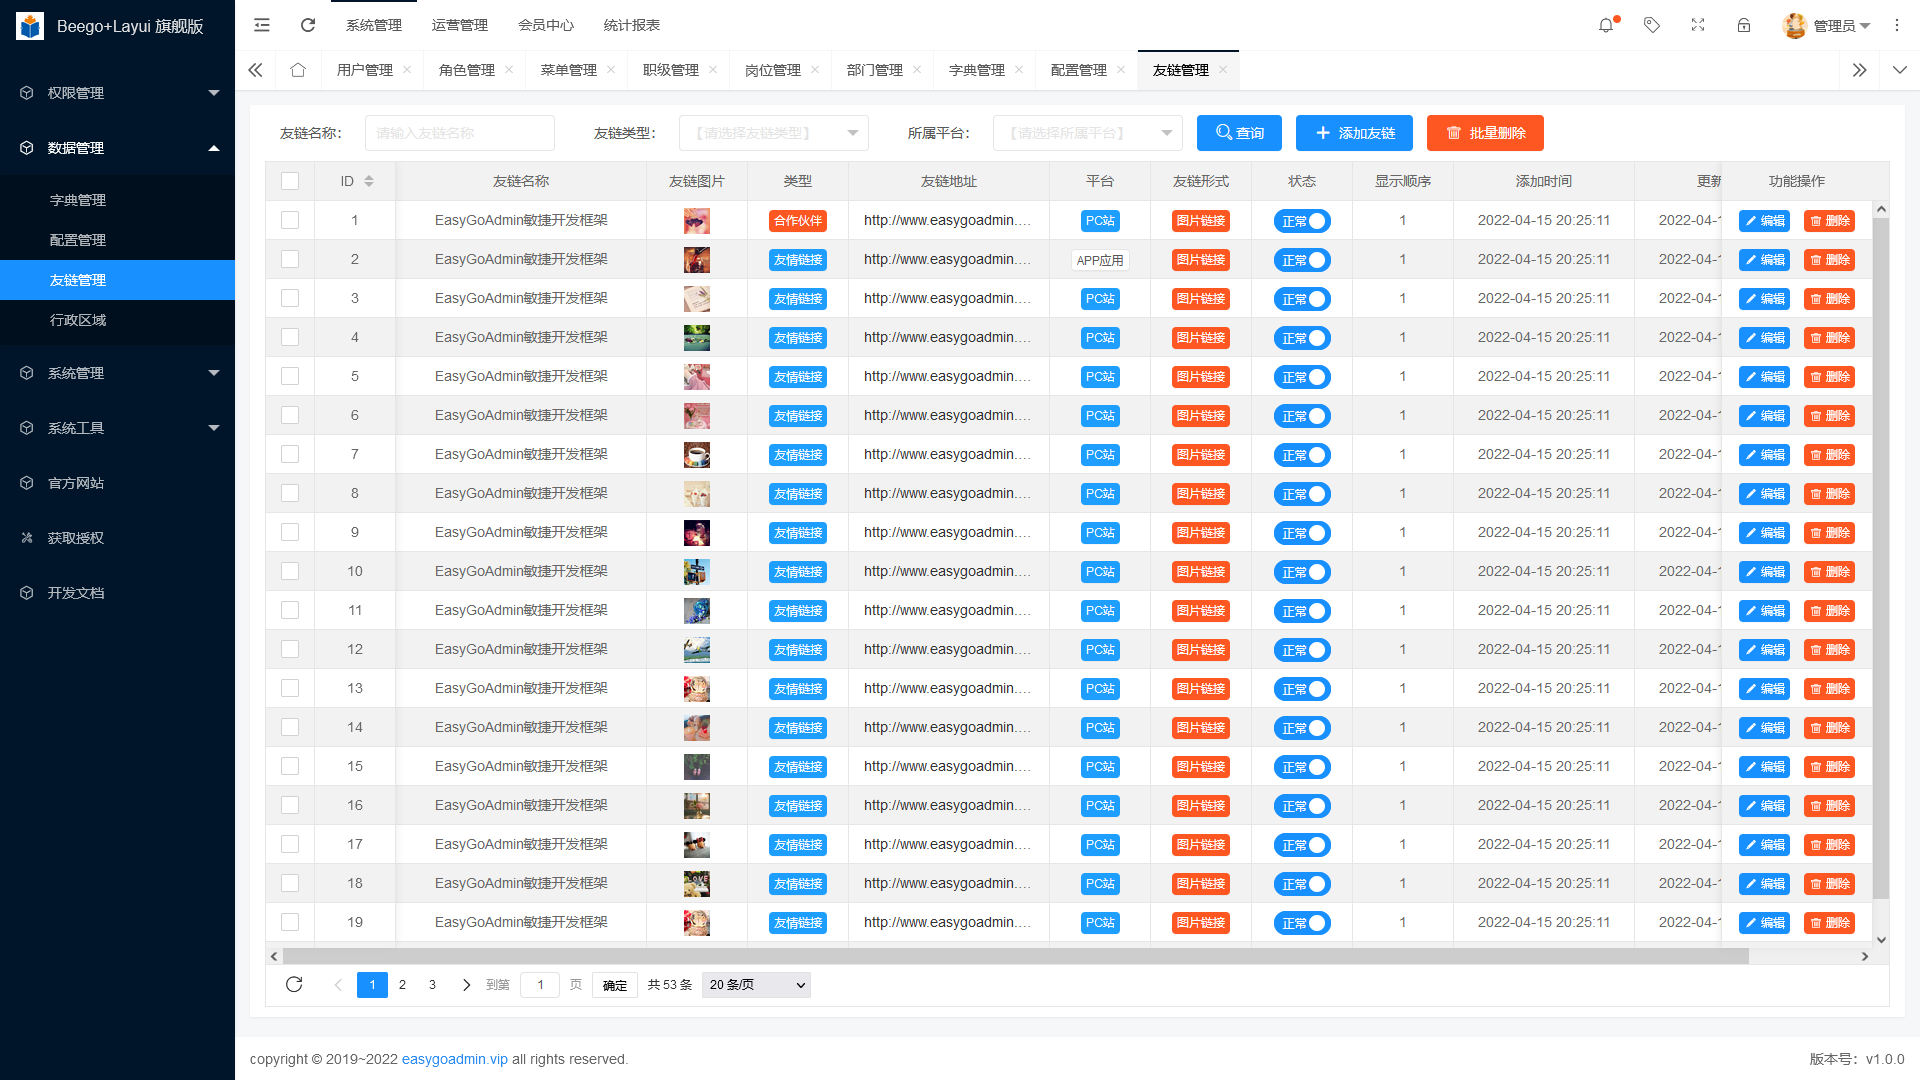
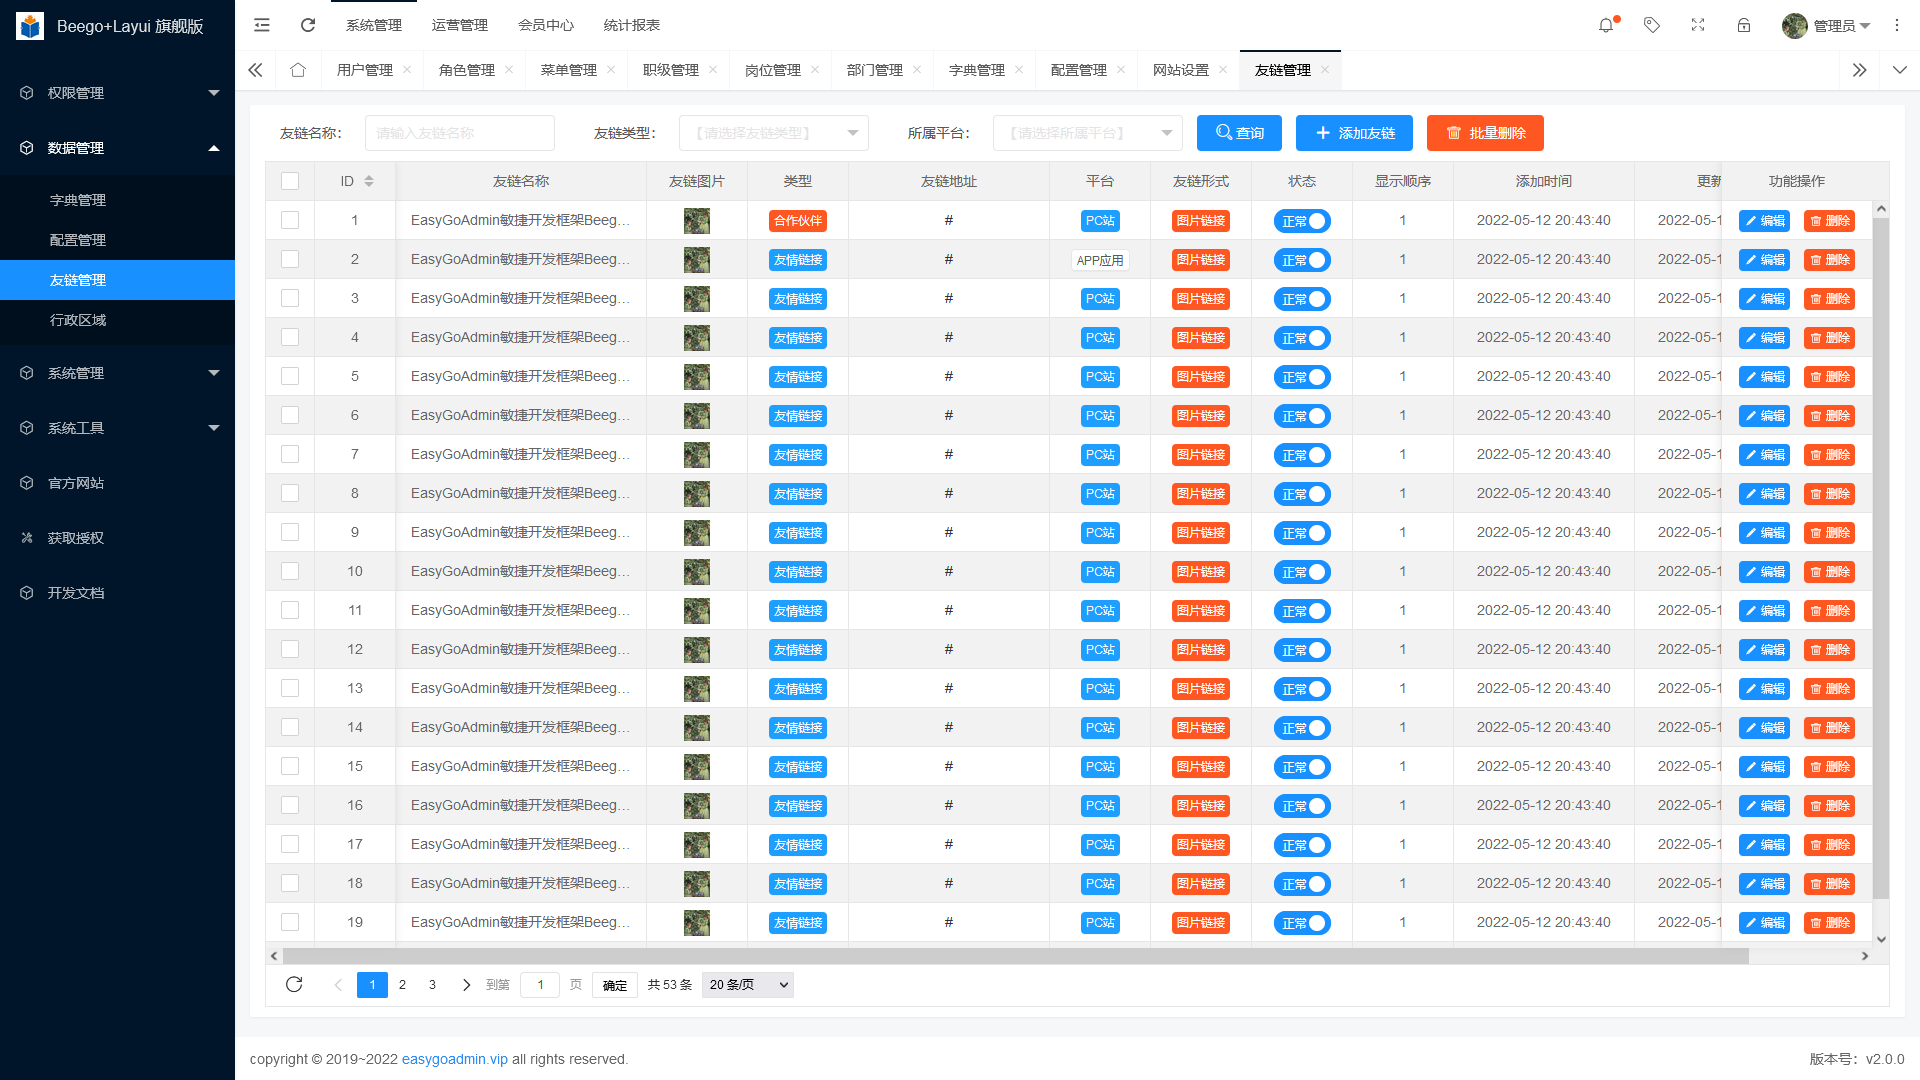
更新升级

diff --git a/static/assets/module/common.js b/static/assets/module/common.js
@@ -1,1 +1,1 @@
-(()=>{var n={351:()=>{layui.define(["form","layer","laydate","upload","element","base"],(function(n){"use strict";var e=layui.form,a=void 0===parent.layer?layui.layer:top.layer,t=layui.laydate,i=layui.upload,o=(layui.element,layui.base),r=layui.$,l={edit:function(n,e=0,a=0,t=0,i=[],r=null,c=!1){var s=e>0?"修改":"新增";o.isEmpty(n)?s+="内容":s+=n;var u=cUrl+"/edit?id="+e;if(Array.isArray(i))for(var f in i)u+="&"+i[f];l.showWin(s,u,a,t,i,2,[],(function(n,e){r&&r(n,e)}),c)},detail:function(n,e,a=0,t=0,i=!1){var o=cUrl+"/detail?id="+e;l.showWin(n+"详情",o,a,t,[],2,[],null,i)},cache:function(n){var e=cUrl+"/cache";l.ajaxPost(e,{id:n},(function(n,e){}))},copy:function(n,e,a=0,t=0){var i=cUrl+"/copy?id="+e;l.showWin(n+"复制",i,a,t)},delete:function(n,e=null){a.confirm("您确定要删除吗？删除后将无法恢复！",{icon:3,skin:"layer-ext-moon",btn:["确认","取消"]},(function(t){var i=cUrl+"/delete?id="+n;console.log(i),l.ajaxPost(i,{},(function(n,i){e&&(a.close(t),e(n,i))}),"正在删除。。。")}))},batchFunc:function(n,e=null){var t=n.url,i=n.title,o=(n.form,n.confirm||!1),r=n.show_tips||"处理中...",c=n.data||[],s=n.param||[],u=n.type||"POST";if("导出数据"!=i&&0==c.length)return a.msg("请选择数据",{icon:5}),!1;var f=[];for(var d in c)f.push(c[d].Id);var m=f.join(","),p={};if(p.id=m,Array.isArray(s))for(var d in s){var y=s[d].split("=");p[y[0]]=y[1]}console.log(p),o?a.confirm("您确定要【"+i+"】选中的数据吗？",{icon:3,title:"提示信息"},(function(n){"POST"==u?t.indexOf("/delete")>=0?l.ajaxPost(t+"?id="+m,{},e,r):l.ajaxPost(t,p,e,r):l.ajaxGet(t+"/"+m,{},e,r)})):"POST"==u?l.ajaxPost(t,p,e,r):l.ajaxGet(t+"/"+m,{},e,r)},verify:function(){e.verify({number:[/^[0-9]*$/,"请输入数字"],username:function(n,e){return new RegExp("^[a-zA-Z0-9_一-龥\\s·]+$").test(n)?/(^\_)|(\__)|(\_+$)/.test(n)?title+"首尾不能出现下划线'_'":/^\d+\d+\d$/.test(n)?title+"不能全为数字":void 0:title+"不能含有特殊字符"},pass:[/^[\S]{6,12}$/,"密码必须6到12位，且不能出现空格"]})},submitForm:function(n,e=null,a=null,t=!0){var i=[],c=[],s=n;if(r.each(s,(function(n,e){if(console.log(n+":"+e),/\[|\]|【|】/g.test(n)){var a=n.match(/\[(.+?)\]/g);e=n.match("\\[(.+?)\\]")[1];var t=n.replace(a,"");r.inArray(t,i)<0&&i.push(t),c[t]||(c[t]=[]),c[t].push(e)}})),console.log(s),console.log(i),console.log(c),r.each(i,(function(n,e){var a=[];r.each(c[e],(function(n,t){a.push(t),delete s[e+"["+t+"]"]})),s[e]=a.join(",")})),null==e){e=cUrl;var u=r("form").attr("action");o.isEmpty(u)?null!=n.id&&(0==n.id?e+="/add":n.id>0&&(e+="/update")):e=u}console.log(s);var f=new FormData;r.each(s,(function(n,e){f.append(n,e),console.log(n+","+e)})),console.log(f),l.ajaxPost(e,f,(function(n,e){if(e)return t&&setTimeout((function(){var n=parent.layer.getFrameIndex(window.name);parent.layer.close(n)}),500),a&&a(n,e),!1}))},searchForm:function(n,e,a="tableList"){n.reload(a,{page:{curr:1},where:e.field})},initDate:function(n,e=null){if(Array.isArray(n))for(var a in n){var i=n[a].split("|");if(i[2])var o=i[2].split(",");var r={};if(r.elem="#"+i[0],r.type=i[1],r.theme="molv",r.range="true"===i[3]||i[3],r.calendar=!0,r.show=!1,r.position="absolute",r.trigger="click",r.btns=["clear","now","confirm"],r.mark={"0-06-25":"生日","0-12-31":"跨年"},r.ready=function(n){},r.change=function(n,e,a){},r.done=function(n,a,t){e&&e(n,a)},o){var l=o[0];if(l){var c=!isNaN(l);r.min=c?parseInt(l):l}var s=o[1];if(s){var u=!isNaN(s);r.max=u?parseInt(s):s}}t.render(r)}},showWin:function(n,e,a=0,t=0,i=[],o=2,l=[],c=null,s=!1){var u=layui.layer.open({title:n,type:o,area:[a+"px",t+"px"],content:e,shadeClose:s,shade:.4,skin:"layui-layer-admin",success:function(n,e){if(Array.isArray(i))for(var a in i){var t=i[a].split("=");layui.layer.getChildFrame("body",e).find("#"+t[0]).val(t[1])}c&&c(e,1)},end:function(){c(u,2)}});0==a&&(layui.layer.full(u),r(window).on("resize",(function(){layui.layer.full(u)})))},ajaxPost:function(n,e,t=null,i="处理中,请稍后..."){var o=null;r.ajax({type:"POST",url:n,data:e,dataType:"json",contentType:!1,processData:!1,beforeSend:function(){o=a.msg(i,{icon:16,shade:.01,time:0})},success:function(n){if(0!=n.code)return a.close(o),a.msg(n.msg,{icon:5}),!1;a.msg(n.msg,{icon:1,time:500},(function(){a.close(o),t&&t(n,!0)}))},error:function(){a.close(o),a.msg("AJAX请求异常"),t&&t(null,!1)}})},ajaxGet:function(n,e,t=null,i="处理中,请稍后..."){var o=null;r.ajax({type:"GET",url:n,data:e,contentType:"application/json",dataType:"json",beforeSend:function(){o=a.msg(i,{icon:16,shade:.01,time:0})},success:function(n){if(0!=n.code)return a.msg(n.msg,{icon:5}),!1;a.msg(n.msg,{icon:1,time:500},(function(){a.close(o),t&&t(n,!0)}))},error:function(){a.msg("AJAX请求异常"),t&&t(null,!1)}})},formSwitch:function(n,a="",t=null){e.on("switch("+n+")",(function(e){var i=this.checked?"1":"2";o.isEmpty(a)&&(a=cUrl+"/set"+n.substring(0,1).toUpperCase()+n.substring(1));var r=new FormData;r.append("id",this.value),r.append(n,i),console.log(r),l.ajaxPost(a,r,(function(n,e){t&&t(n,e)}))}))},uploadFile:function(n,e=null,t="",r="xls|xlsx",l=10240,c={}){o.isEmpty(t)&&(t=cUrl+"/uploadFile"),i.render({elem:"#"+n,url:t,auto:!1,exts:r,accept:"file",size:l,method:"post",data:c,before:function(n){a.msg("上传并处理中。。。",{icon:16,shade:.01,time:0})},done:function(n){return a.closeAll(),0==n.code?a.alert(n.msg,{title:"上传反馈",skin:"layui-layer-molv",closeBtn:1,anim:0,btn:["确定","取消"],icon:6,yes:function(){e&&e(n,!0)},btn2:function(){}}):a.msg(n.msg,{icon:5}),!1},error:function(){return a.msg("数据请求异常")}})}};n("common",l)}))}},e={};!function a(t){var i=e[t];if(void 0!==i)return i.exports;var o=e[t]={exports:{}};return n[t](o,o.exports,a),o.exports}(351)})();
+(()=>{var n={351:()=>{layui.define(["form","layer","laydate","upload","element","base"],(function(n){"use strict";var e=layui.form,a=void 0===parent.layer?layui.layer:top.layer,t=layui.laydate,o=layui.upload,i=(layui.element,layui.base),r=layui.$,l={edit:function(n,e=0,a=0,t=0,o=[],r=null,c=!1){var s=e>0?"修改":"新增";i.isEmpty(n)?s+="内容":s+=n;var u=cUrl+"/edit?id="+e;if(Array.isArray(o))for(var f in o)u+="&"+o[f];l.showWin(s,u,a,t,o,2,[],(function(n,e){r&&r(n,e)}),c)},detail:function(n,e,a=0,t=0,o=!1){var i=cUrl+"/detail?id="+e;l.showWin(n+"详情",i,a,t,[],2,[],null,o)},cache:function(n){var e=cUrl+"/cache";l.ajaxPost(e,{id:n},(function(n,e){}))},copy:function(n,e,a=0,t=0){var o=cUrl+"/copy?id="+e;l.showWin(n+"复制",o,a,t)},delete:function(n,e=null){a.confirm("您确定要删除吗？删除后将无法恢复！",{icon:3,skin:"layer-ext-moon",btn:["确认","取消"]},(function(t){var o=cUrl+"/delete?id="+n;console.log(o),l.ajaxPost(o,{},(function(n,o){e&&(a.close(t),e(n,o))}),"正在删除。。。")}))},batchFunc:function(n,e=null){var t=n.url,o=n.title,i=(n.form,n.confirm||!1),r=n.show_tips||"处理中...",c=n.data||[],s=n.param||[],u=n.type||"POST";if("导出数据"!=o&&0==c.length)return a.msg("请选择数据",{icon:5}),!1;var f=[];for(var d in c)f.push(c[d].Id);var m=f.join(","),p={};if(p.id=m,Array.isArray(s))for(var d in s){var y=s[d].split("=");p[y[0]]=y[1]}console.log(p),i?a.confirm("您确定要【"+o+"】选中的数据吗？",{icon:3,title:"提示信息"},(function(n){"POST"==u?t.indexOf("/delete")>=0?l.ajaxPost(t+"?id="+m,{},e,r):l.ajaxPost(t,p,e,r):l.ajaxGet(t+"/"+m,{},e,r)})):"POST"==u?l.ajaxPost(t,p,e,r):l.ajaxGet(t+"/"+m,{},e,r)},verify:function(){e.verify({number:[/^[0-9]*$/,"请输入数字"],username:function(n,e){return new RegExp("^[a-zA-Z0-9_一-龥\\s·]+$").test(n)?/(^\_)|(\__)|(\_+$)/.test(n)?title+"首尾不能出现下划线'_'":/^\d+\d+\d$/.test(n)?title+"不能全为数字":void 0:title+"不能含有特殊字符"},pass:[/^[\S]{6,12}$/,"密码必须6到12位，且不能出现空格"]})},submitForm:function(n,e=null,a=null,t=!0){var o=[],c=[],s=n;if(r.each(s,(function(n,e){if(console.log(n+":"+e),/\[|\]|【|】/g.test(n)){var a=n.match(/\[(.+?)\]/g);e=n.match("\\[(.+?)\\]")[1];var t=n.replace(a,"");r.inArray(t,o)<0&&o.push(t),c[t]||(c[t]=[]),c[t].push(e)}})),console.log(s),console.log(o),console.log(c),r.each(o,(function(n,e){var a=[];r.each(c[e],(function(n,t){a.push(t),delete s[e+"["+t+"]"]})),s[e]=a.join(",")})),null==e){e=cUrl;var u=r("form").attr("action");i.isEmpty(u)?null!=n.id&&(0==n.id?e+="/add":n.id>0&&(e+="/update")):e=u}console.log(s);var f=new FormData;r.each(s,(function(n,e){f.append(n,e),console.log(n+","+e)})),console.log(f),l.ajaxPost(e,f,(function(n,e){if(e)return t&&setTimeout((function(){var n=parent.layer.getFrameIndex(window.name);parent.layer.close(n)}),500),a&&a(n,e),!1}))},searchForm:function(n,e,a="tableList"){n.reload(a,{page:{curr:1},where:e.field})},initDate:function(n,e=null){if(Array.isArray(n))for(var a in n){var o=n[a].split("|");if(o[2])var i=o[2].split(",");var r={};if(r.elem="#"+o[0],r.type=o[1],r.theme="molv",r.range="true"===o[3]||o[3],r.calendar=!0,r.show=!1,r.position="absolute",r.trigger="click",r.btns=["clear","now","confirm"],r.mark={"0-06-25":"生日","0-12-31":"跨年"},r.ready=function(n){},r.change=function(n,e,a){},r.done=function(n,a,t){e&&e(n,a)},i){var l=i[0];if(l){var c=!isNaN(l);r.min=c?parseInt(l):l}var s=i[1];if(s){var u=!isNaN(s);r.max=u?parseInt(s):s}}t.render(r)}},showWin:function(n,e,a=0,t=0,o=[],i=2,l=[],c=null,s=!1){var u=layui.layer.open({title:n,type:i,area:[a+"px",t+"px"],content:e,shadeClose:s,shade:.4,skin:"layui-layer-admin",success:function(n,e){if(Array.isArray(o))for(var a in o){var t=o[a].split("=");layui.layer.getChildFrame("body",e).find("#"+t[0]).val(t[1])}c&&c(e,1)},end:function(){c(u,2)}});0==a&&(layui.layer.full(u),r(window).on("resize",(function(){layui.layer.full(u)})))},ajaxPost:function(n,e,t=null,o="处理中,请稍后..."){var i=null;r.ajax({type:"POST",url:n,data:e,dataType:"json",contentType:!1,processData:!1,beforeSend:function(){i=a.msg(o,{icon:16,shade:.01,time:0})},success:function(n){if(0!=n.code)return a.close(i),a.msg(n.msg,{icon:5}),!1;a.msg(n.msg,{icon:1,time:500},(function(){a.close(i),t&&t(n,!0)}))},error:function(){a.close(i),a.msg("AJAX请求异常"),t&&t(null,!1)}})},ajaxGet:function(n,e,t=null,o="处理中,请稍后..."){var i=null;r.ajax({type:"GET",url:n,data:e,contentType:"application/json",dataType:"json",beforeSend:function(){i=a.msg(o,{icon:16,shade:.01,time:0})},success:function(n){if(0!=n.code)return a.msg(n.msg,{icon:5}),!1;a.msg(n.msg,{icon:1,time:500},(function(){a.close(i),t&&t(n,!0)}))},error:function(){a.msg("AJAX请求异常"),t&&t(null,!1)}})},formSwitch:function(n,a="",t=null){e.on("switch("+n+")",(function(e){var o=this.checked?"1":"2";i.isEmpty(a)&&(a=cUrl+"/set"+n.substring(0,1).toUpperCase()+n.substring(1));var r=new FormData;r.append("id",this.value),r.append(n.toLowerCase(),o),console.log(r),l.ajaxPost(a,r,(function(n,e){t&&t(n,e)}))}))},uploadFile:function(n,e=null,t="",r="xls|xlsx",l=10240,c={}){i.isEmpty(t)&&(t=cUrl+"/uploadFile"),o.render({elem:"#"+n,url:t,auto:!1,exts:r,accept:"file",size:l,method:"post",data:c,before:function(n){a.msg("上传并处理中。。。",{icon:16,shade:.01,time:0})},done:function(n){return a.closeAll(),0==n.code?a.alert(n.msg,{title:"上传反馈",skin:"layui-layer-molv",closeBtn:1,anim:0,btn:["确定","取消"],icon:6,yes:function(){e&&e(n,!0)},btn2:function(){}}):a.msg(n.msg,{icon:5}),!1},error:function(){return a.msg("数据请求异常")}})}};n("common",l)}))}},e={};!function a(t){var o=e[t];if(void 0!==o)return o.exports;var i=e[t]={exports:{}};return n[t](i,i.exports,a),i.exports}(351)})();

diff --git a/static/module/easygoadmin_member.js b/static/module/easygoadmin_member.js
@@ -44,10 +44,10 @@ layui.use(['func', 'form'], function () {
                         cls = "layui-btn-normal";
                     } else if (d.Gender == 2) {
                         // 女
-                        cls = "layui-btn-danger";
+                        cls = "layui-btn-warm";
                     } else if (d.Gender == 3) {
                         // 保密
-                        cls = "layui-btn-warm";
+                        cls = "layui-btn-danger";
                     }
                     return '<span class="layui-btn ' + cls + ' layui-btn-xs">' + d.GenderName + '</span>';
                 }
@@ -73,10 +73,10 @@ layui.use(['func', 'form'], function () {
                         cls = "layui-btn-normal";
                     } else if (d.Device == 2) {
                         // 安卓
-                        cls = "layui-btn-danger";
+                        cls = "layui-btn-warm";
                     } else if (d.Device == 3) {
                         // WAP站
-                        cls = "layui-btn-warm";
+                        cls = "layui-btn-danger";
                     } else if (d.Device == 4) {
                         // PC站
                         cls = "layui-btn-primary";
@@ -94,7 +94,7 @@ layui.use(['func', 'form'], function () {
                         cls = "layui-btn-normal";
                     } else if (d.Source == 2) {
                         // 马甲会员
-                        cls = "layui-btn-danger";
+                        cls = "layui-btn-primary";
                     }
                     return '<span class="layui-btn ' + cls + ' layui-btn-xs">'+d.SourceName+'</span>';
                 }}

diff --git a/static/module/easygoadmin_example.js b/static/module/easygoadmin_example.js
@@ -59,7 +59,7 @@ layui.use(['func'], function () {
         
             
             , {field: 'Status', width: 100, title: '状态', align: 'center', templet: function (d) {
-				return  '<input type="checkbox" name="Status" value="'+d.Id+'" lay-skin="switch" lay-text="正常|停用" lay-filter="Status" '+(d.status==1 ? 'checked' : '')+'>';
+				return  '<input type="checkbox" name="Status" value="'+d.Id+'" lay-skin="switch" lay-text="正常|停用" lay-filter="Status" '+(d.Status==1 ? 'checked' : '')+'>';
             }}
             
         

diff --git a/views/welcome.html b/views/welcome.html
@@ -308,7 +308,7 @@
                         <script type="text/html" ew-tpl>
                             <tr>
                                 <td>当前版本</td>
-                                <td>v1.0.0</td>
+                                <td>v2.0.0</td>
                             </tr>
                             <tr>
                                 <td>基于框架</td>

diff --git a/views/index.html b/views/index.html
@@ -115,7 +115,7 @@
     <!-- 底部 -->
     <div class="layui-footer layui-text">
         copyright © 2019~2022 <a href="http://www.easygoadmin.vip" target="_blank">easygoadmin.vip</a> all rights reserved.
-        <span class="pull-right">版本号：v1.0.0</span>
+        <span class="pull-right">版本号：v2.0.0</span>
     </div>
 </div>
 

diff --git a/app/services/example.go b/app/services/example.go
@@ -210,15 +210,13 @@ func (s *exampleService) Status(req dto.ExampleStatusReq, userId int) (int64, er
 		return 0, errors.New("演示环境，暂无权限操作")
 	}
 	// 查询记录是否存在
-	info := &models.Example{Id: gconv.Int(req.Id)}
-	err := info.Get()
+	entity := &models.Example{Id: gconv.Int(req.Id)}
+	err := entity.Get()
 	if err != nil {
 		return 0, errors.New("记录不存在")
 	}
 
 	// 设置状态
-	entity := &models.Example{}
-	entity.Id = info.Id
 	entity.Status = req.Status
 	entity.UpdateUser = userId
 	entity.UpdateTime = time.Now()
@@ -230,15 +228,13 @@ func (s *exampleService) IsVip(req dto.ExampleIsVipReq, userId int) (int64, erro
 		return 0, errors.New("演示环境，暂无权限操作")
 	}
 	// 查询记录是否存在
-	info := &models.Example{Id: gconv.Int(req.Id)}
-	err := info.Get()
+	entity := &models.Example{Id: gconv.Int(req.Id)}
+	err := entity.Get()
 	if err != nil {
 		return 0, errors.New("记录不存在")
 	}
 
-	// 设置状态
-	entity := &models.Example{}
-	entity.Id = info.Id
+	// 设置是否VIP
 	entity.IsVip = req.IsVip
 	entity.UpdateUser = userId
 	entity.UpdateTime = time.Now()

diff --git a/app/services/config.go b/app/services/config.go
@@ -49,9 +49,9 @@ func (s *configService) GetList(req dto.ConfigPageReq) ([]models.Config, int64, 
 	query = query.OrderBy("sort")
 	// 查询总数
 	count, err := query.Count()
-	// 分页设置
-	offset := (req.Page - 1) * req.Limit
-	query = query.Limit(req.Limit, offset)
+	//// 分页设置
+	//offset := (req.Page - 1) * req.Limit
+	//query = query.Limit(req.Limit, offset)
 	// 查询列表
 	lists := make([]models.Config, 0)
 	query.All(&lists)

diff --git a/app/services/dict.go b/app/services/dict.go
@@ -49,9 +49,9 @@ func (s *dictServce) GetList(req dto.DictPageReq) ([]models.Dict, int64, error) 
 	query = query.OrderBy("sort")
 	// 查询总数
 	count, err := query.Count()
-	// 分页设置
-	offset := (req.Page - 1) * req.Limit
-	query = query.Limit(req.Limit, offset)
+	//// 分页设置
+	//offset := (req.Page - 1) * req.Limit
+	//query = query.Limit(req.Limit, offset)
 	// 查询列表
 	lists := make([]models.Dict, 0)
 	query.All(&lists)

diff --git a/README.md b/README.md
@@ -172,8 +172,6 @@ easygoadmin
 
 ![效果图](./uploads/demo/22.png)
 
-![效果图](./uploads/demo/23.png)
-
 ## ✨  特别鸣谢
 感谢[Beego](https://beego.me)、[Layui](http://www.layui.com)等优秀开源项目。
 
